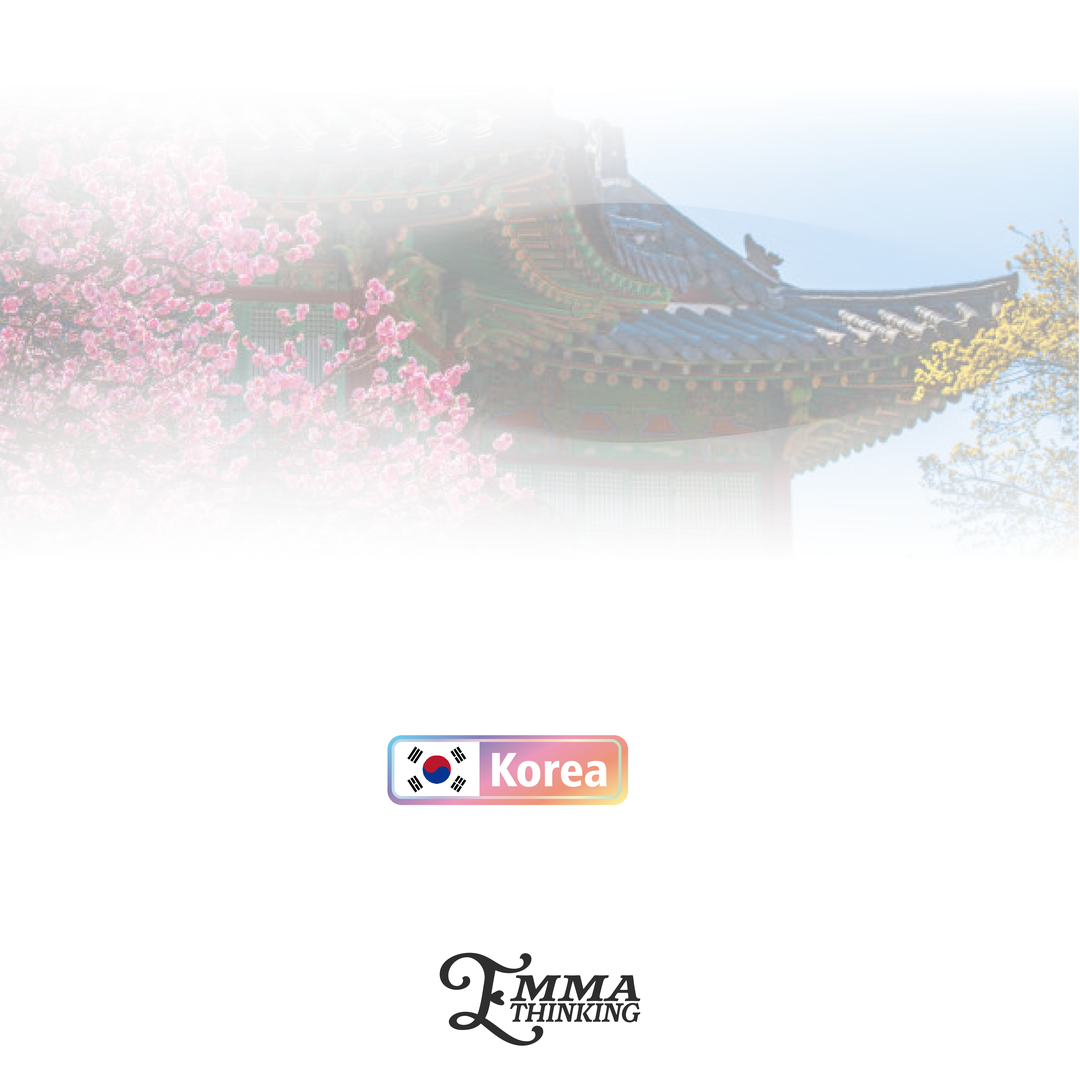
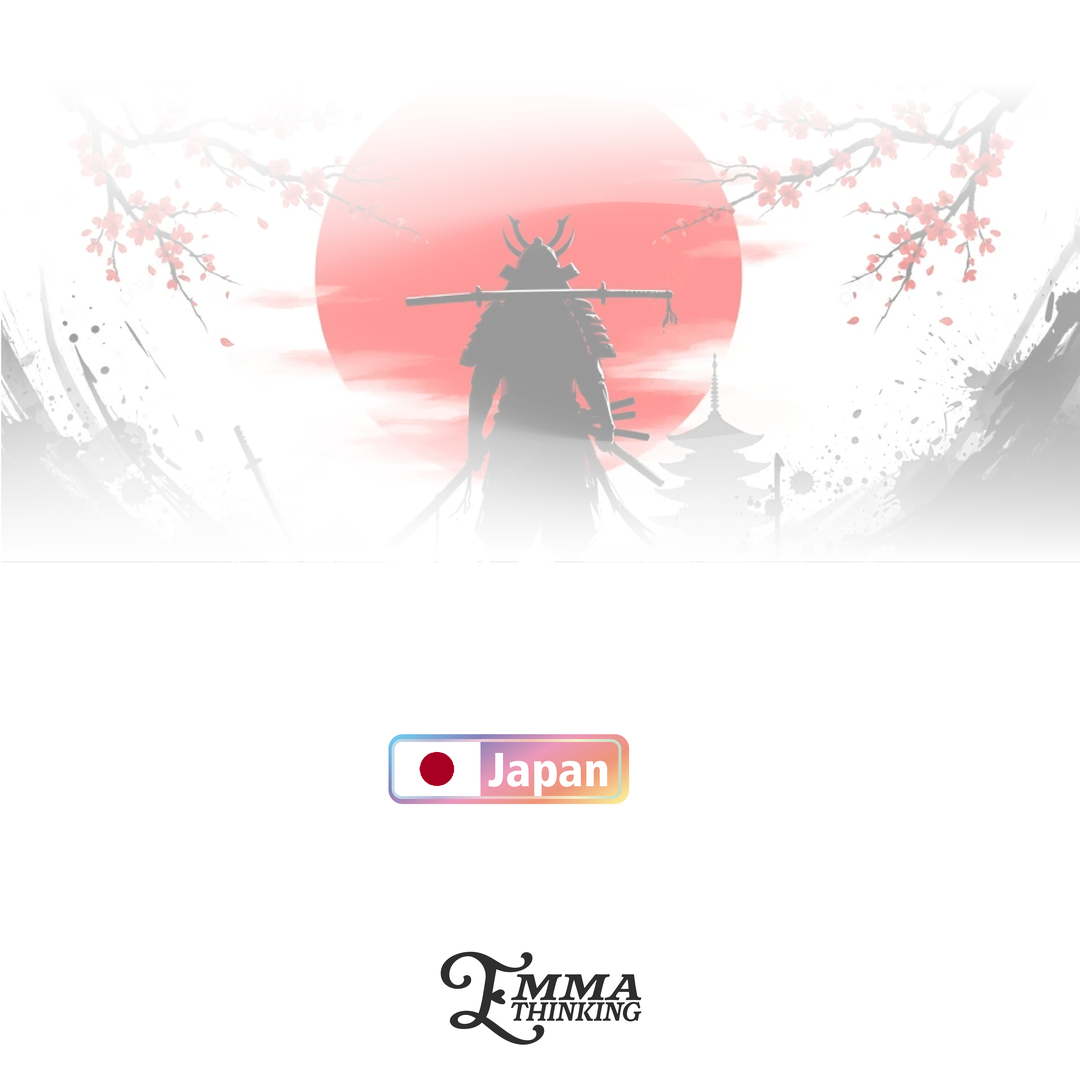
Platinum: 9 country templates + auto-handle any platinum-<country>-N (text band 565-734)

Changed region(s): [[0.0, 0.1222, 1.0, 0.4889], [0.3972, 0.8861, 0.6111, 0.9778], [0.3667, 0.6722, 0.5806, 0.7333]]

diff --git a/api/_gen/emma_config.py b/api/_gen/emma_config.py
@@ -80,9 +80,23 @@ TEMPLATES = {
     "gold":       {"file": "gold.png",       **_normal(721, THEME_GOLD)},
     "vip":        {"file": "vip.png",        **_normal(735)},
     "princess":   {"file": "princess.png",   **_normal(721, THEME_PINK)},
-    "platinum":   {"file": "platinum-japan-1.png", "region_top": 490,
-                   "region_bottom": 700, "colors": THEME_BLACK},
 }
+
+# Platinum: photo is baked into each country template; text sits in the band
+# below the photo (565) up to the country badge (734). Any file named
+# platinum-<country>-<n>.png is picked up automatically — no config edit needed.
+PLATINUM_DEFAULT = {"region_top": 565, "region_bottom": 734, "colors": THEME_BLACK}
+DEFAULT_PLATINUM = "platinum-srilanka-1"
+
+def get_template(key):
+    key = (key or "").strip().lower()
+    if key in TEMPLATES:
+        return TEMPLATES[key]
+    if key.startswith("platinum"):
+        f = key + ".png"
+        if os.path.exists(os.path.join(TEMPLATE_DIR, f)):
+            return {"file": f, **PLATINUM_DEFAULT}
+    return None
 
 # package name (e.g. "Gold Pass", "Princess Silver", "VIP Pass") -> template key.
 # Order matters: princess first so "Princess Gold" -> princess (pink).
@@ -92,5 +106,5 @@ def template_for_package(name):
     n = (name or "").strip().lower()
     for key in _PKG_ORDER:
         if key in n:
-            return key
+            return DEFAULT_PLATINUM if key == "platinum" else key
     return "silver"  # safe default

diff --git a/api/_gen/generator.py b/api/_gen/generator.py
@@ -178,7 +178,7 @@ def parse_system_text(raw):
 
 def render(template_key, data, opts=None):
     opts = opts or {}
-    tpl = C.TEMPLATES[template_key]
+    tpl = C.get_template(template_key) or C.TEMPLATES["silver"]
     img = Image.open(os.path.join(C.TEMPLATE_DIR, tpl["file"])).convert("RGB")
     if img.size != (C.CANVAS, C.CANVAS):
         img = img.resize((C.CANVAS, C.CANVAS), Image.LANCZOS)
@@ -243,7 +243,7 @@ def generate(brief, package="", code="", opts=None):
     data = parse_system_text(brief)
     if code:
         data["code"] = code
-    key = (opts.get("template") or "").strip().lower() or C.template_for_package(package)
-    if key not in C.TEMPLATES:
+    key = (opts.get("template") or "").strip().lower()
+    if not key or C.get_template(key) is None:
         key = C.template_for_package(package)
     return render(key, data, opts)